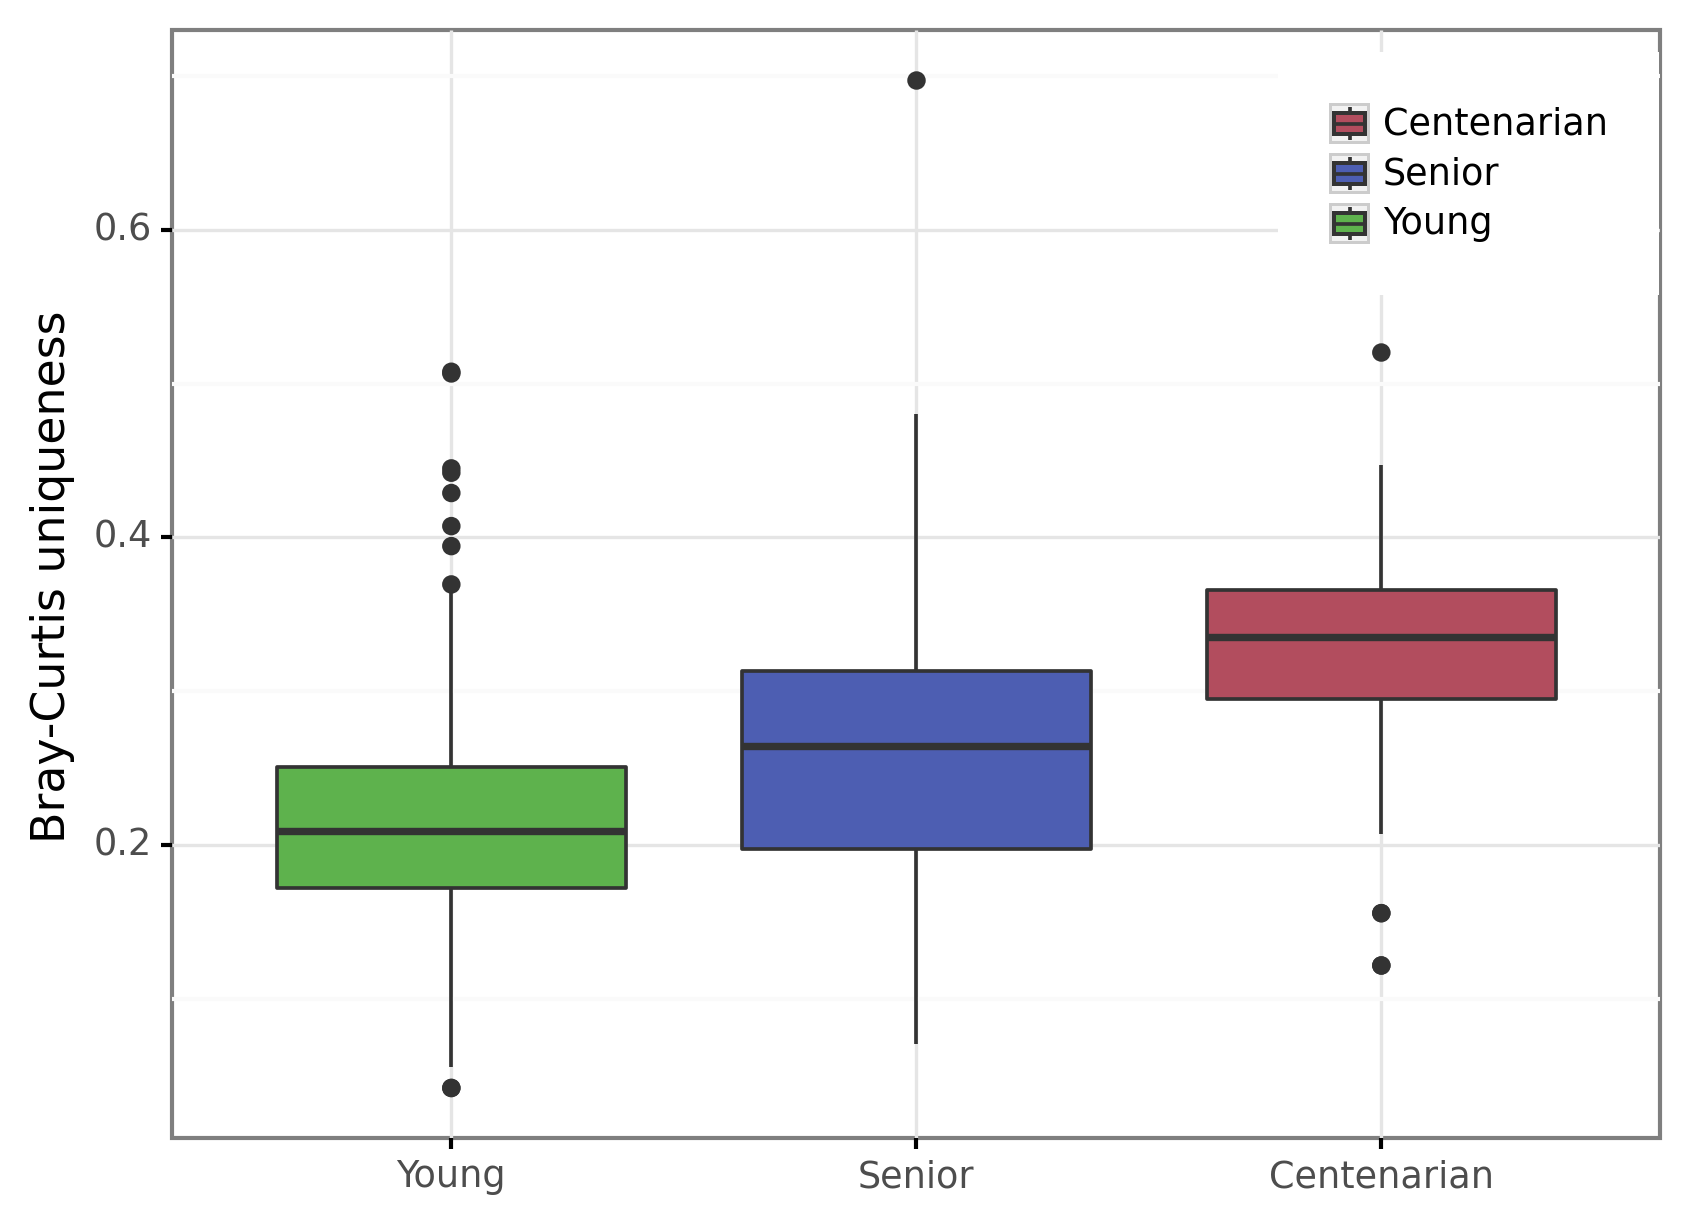
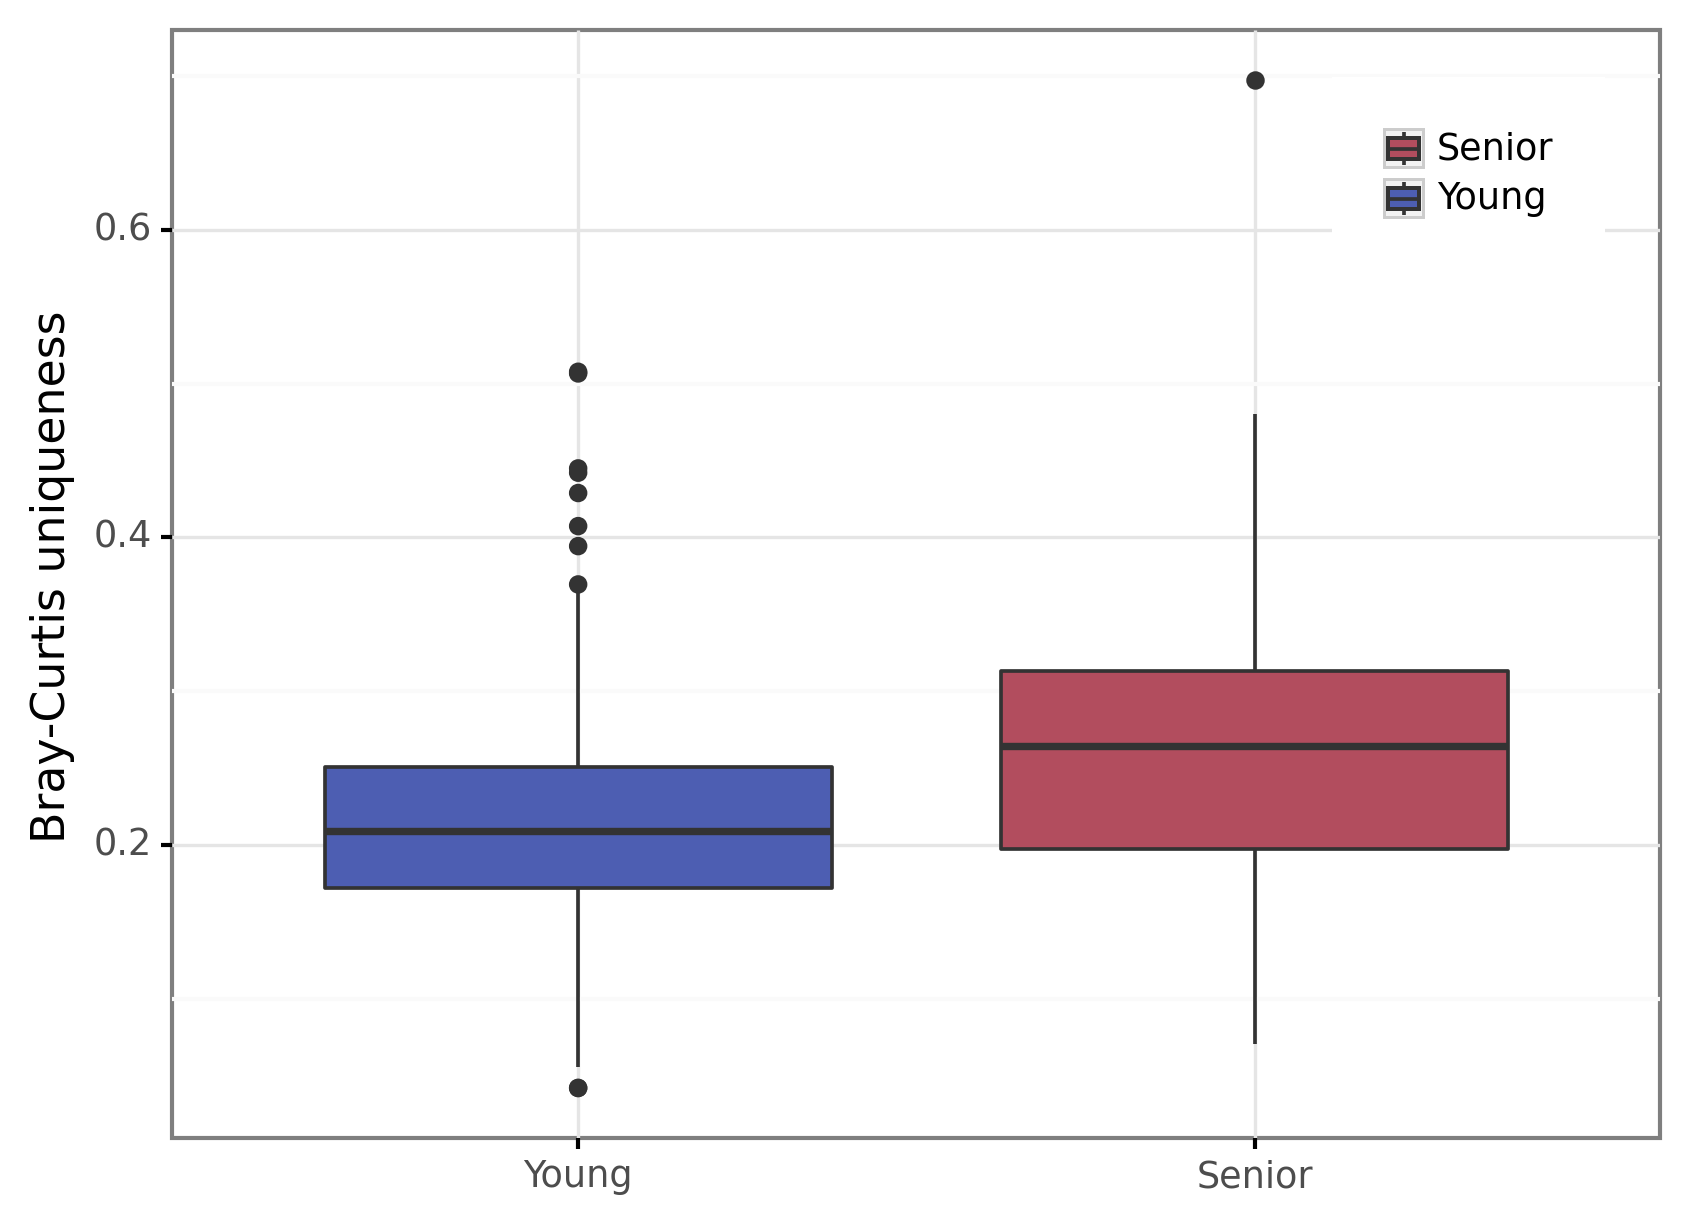
update fig

diff --git a/diversity_plot/diversity_plot.py b/diversity_plot/diversity_plot.py
@@ -4,7 +4,7 @@ from skbio.diversity import alpha_diversity
 import seaborn as sns
 import matplotlib.pyplot as plt
 from plotnine import*
-from statannotations.Annotator import Annotator
+# from statannotations.Annotator import Annotator
 plt.style.use('ggplot')
 
 
@@ -36,6 +36,7 @@ if __name__ =='__main__':
     bcPlotFrame = pd.DataFrame(columns=['Bray-Curtis Uniqueness', 'Age'])
     for age, abundance in zip(ageGroup, dataList):
         bcPlotFrame = bcPlotFrame.append(CalculateBcUnique(age, abundance))
+    bcPlotFrame = bcPlotFrame[bcPlotFrame['Age'] != 'Centenarian']
     
     # calculate shannon
     shPlotFrame = pd.DataFrame(columns=["Shannon's Diversity", 'Age'])
@@ -46,8 +47,8 @@ if __name__ =='__main__':
     bcBoxPlot = (ggplot(bcPlotFrame, aes(x='Age', y='Bray-Curtis uniqueness', fill='Age'))+
                 geom_boxplot()+
                 xlab('')+
-                xlim(['Young', 'Senior', 'Centenarian'])+
-                scale_fill_manual(['#B24D5E', '#4D5EB2', '#5EB24D'])+
+                xlim(['Young', 'Senior'])+
+                scale_fill_manual(['#B24D5E', '#4D5EB2'])+
                 theme_bw()+
                 theme(legend_position = (0.8, 0.78),
                       legend_title = element_blank(),
@@ -64,14 +65,14 @@ if __name__ =='__main__':
     #                   legend_title = element_blank(),
     #                   legend_key_size = 10))
 
-    shBoxPlot = sns.boxplot(data=shPlotFrame, x='Age', y="Shannon's Diversity")
+    # shBoxPlot = sns.boxplot(data=shPlotFrame, x='Age', y="Shannon's Diversity")
     
-    pairs = [('Young', 'Senior'),
-             ('Young', 'Centenarian'),
-             ('Centenarian', 'Senior')]
+    # pairs = [('Young', 'Senior'),
+    #          ('Young', 'Centenarian'),
+    #          ('Centenarian', 'Senior')]
     
-    shBoxPlot = Annotator(shBoxPlot, data=shPlotFrame, x='Age', y="Shannon's Diversity", pairs=pairs)
-    shBoxPlot.configure(test='Mann-Whitney')
-    shBoxPlot.apply_test()
-    shBoxPlot.annotate()
-    plt.savefig('Shannon_Diversity.png', dpi=300)
+    # shBoxPlot = Annotator(shBoxPlot, data=shPlotFrame, x='Age', y="Shannon's Diversity", pairs=pairs)
+    # shBoxPlot.configure(test='Mann-Whitney')
+    # shBoxPlot.apply_test()
+    # shBoxPlot.annotate()
+    # plt.savefig('Shannon_Diversity.png', dpi=300)

diff --git a/mst_jiangsu_cp/result/PCoA.py b/mst_jiangsu_cp/result/PCoA.py
@@ -10,6 +10,7 @@ if __name__ == '__main__':
     rawAbundance = pd.read_csv('../../data_jiangsu_and_sichuan/abundance_whole.csv', index_col=0).T
     rawMeta.sort_index(inplace=True)
     rawMeta.replace('Elder', 'Senior', inplace=True)
+    rawMeta = rawMeta[rawMeta['Env'] != 'Centenarian']
     rawAbundance = rawAbundance.loc[rawMeta.index.tolist()]
     jsDm = squareform(pdist(rawAbundance, metric='jensenshannon'))
     jsPcoa = pd.DataFrame(pcoa(jsDm, number_of_dimensions=2).samples.values.tolist(), 
@@ -20,15 +21,15 @@ if __name__ == '__main__':
                     geom_point(size=2)+
                     stat_ellipse()+
                     theme_bw()+
-                    scale_fill_manual(['#B24D5E', '#4D5EB2', '#5EB24D'])+
-                    scale_color_manual(['#B24D5E', '#4D5EB2', '#5EB24D'])+
+                    scale_fill_manual(['#4D5EB2', '#B24D5E'])+
+                    scale_color_manual(['#4D5EB2', '#B24D5E'])+
                     xlim(-0.5, 0.5)+
                     ylim(-0.5, 0.5)+
                     theme(axis_line = element_line(color="gray", size = 2))+
                     theme(panel_grid_major = element_blank(), panel_grid_minor = element_blank(), panel_background = element_blank())+
                     theme(figure_size=(10, 10))+
                     theme(legend_position = (0.8,0.8))+
-                    theme(text=element_text(size=20)))
+                    theme(text=element_text(size=20),legend_title = element_blank()))
     pcoaPlot.save('pcoa_plot.jpg', dpi=300)
     
     pc1BoxPlot = (ggplot(jsPcoa, aes(x='Env', y='PC1', fill='Env'))+
